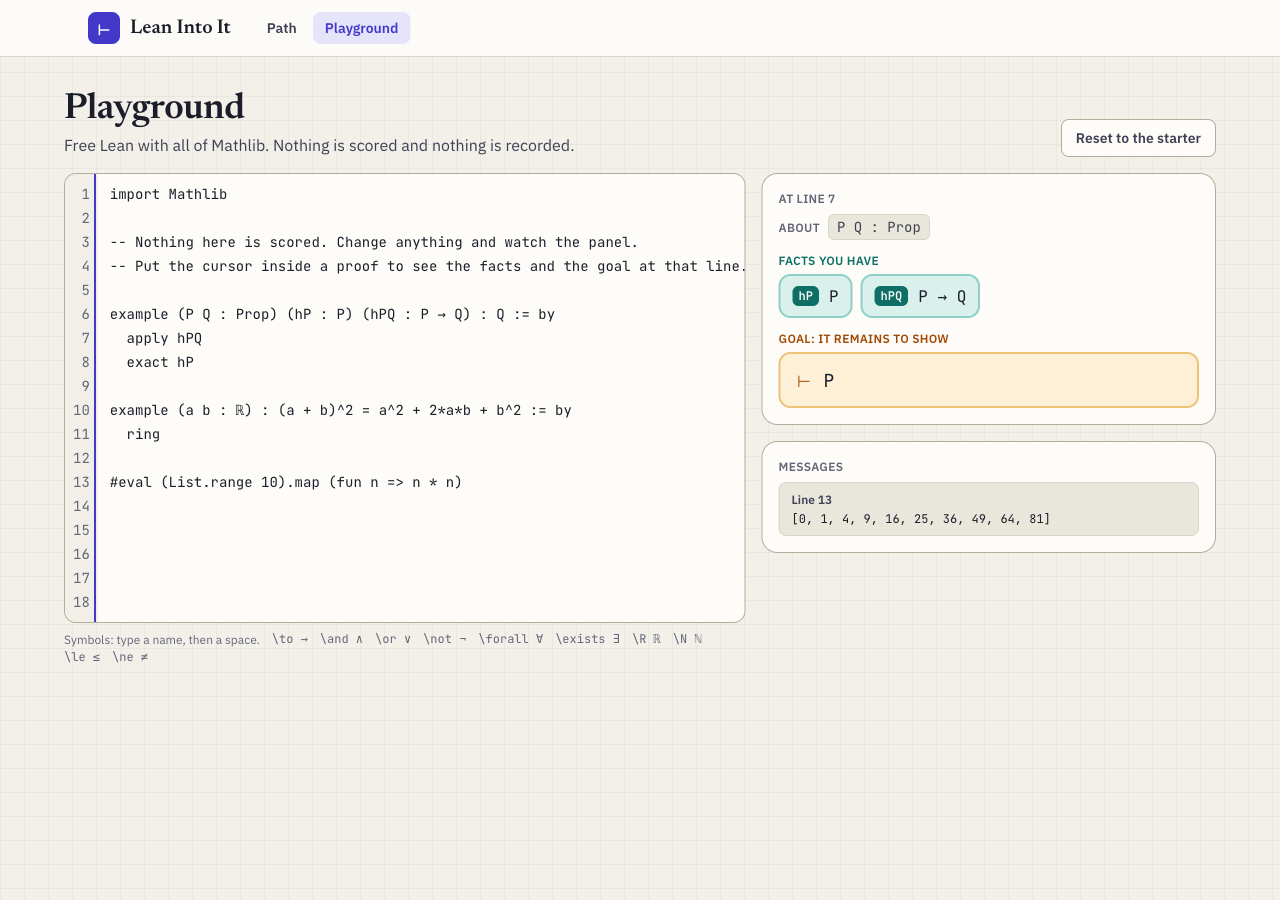
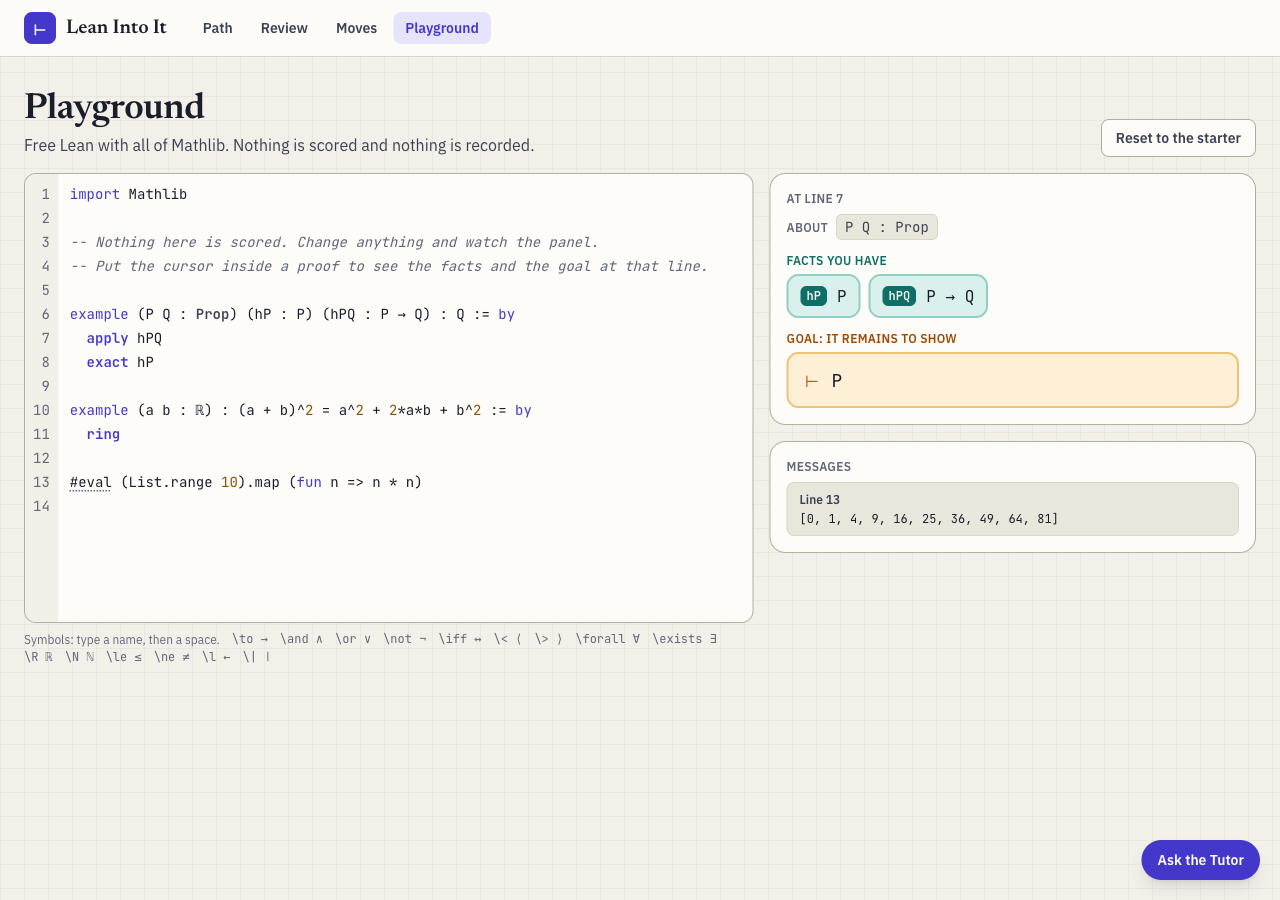
README: screenshots retaken, the Tutor's added, and what is built no longer called planned
Closes lii-2zf.4.

diff --git a/README.md b/README.md
@@ -20,7 +20,7 @@
 
 ## Features
 
-This is an early build. The first four features below work today; the last two are planned. [`docs/STATUS.md`](docs/STATUS.md) lists what is done and what remains.
+This is an early build. Five of the six features below work today; the live proof map is planned. [`docs/STATUS.md`](docs/STATUS.md) lists what is done and what remains.
 
 <table>
   <tr>
@@ -32,9 +32,9 @@ This is an early build. The first four features below work today; the last two a
     </td>
     <td width="50%" valign="top">
       <img src="docs/screenshots/typed-proof.png" alt="A typed Lean proof with the live goal panel beside it" width="100%">
-      <br><sub><i>The same proof, typed, with the goal state beside it.</i></sub>
+      <br><sub><i>A typed proof, with the goal at the caret beside it.</i></sub>
       <h3>Typed Lean with a live goal panel</h3>
-      <p>An editor with the current hypotheses and goals next to it, updated as you type. Exercises are graded by Lean: an error or a <code>sorry</code> fails, and nothing else decides.</p>
+      <p>An editor with Lean's colours, completion and errors underlined where Lean points, and the current hypotheses and goals next to it, updated as you type. Exercises are graded by Lean: an error or a <code>sorry</code> fails, and nothing else decides.</p>
     </td>
   </tr>
   <tr>
@@ -42,7 +42,7 @@ This is an early build. The first four features below work today; the last two a
       <img src="docs/screenshots/guided-path.png" alt="The Path page: levels 0 to 8 with lessons and completion" width="100%">
       <br><sub><i>The Path: nine levels, from what a proof is to how large formalisations are built.</i></sub>
       <h3>A guided path</h3>
-      <p>Levels 0 to 8 in four linked tracks: logic and proof, a maths refresher towards calculus, Lean itself, and verified programs. Levels 0 to 3 are written; the rest are outlined. Completed exercises and lessons are recorded.</p>
+      <p>Levels 0 to 8 in four linked tracks: logic and proof, a maths refresher towards calculus, Lean itself, and verified programs. Levels 0 to 3 are written; the rest are outlined. A level opens when enough of the one before it is mastered, a placement check lets you skip what you know, and what you have learned comes back for review.</p>
     </td>
     <td width="50%" valign="top">
       <img src="docs/screenshots/playground.png" alt="The Playground: a Lean editor with the goal panel and messages beside it" width="100%">
@@ -57,13 +57,15 @@ This is an early build. The first four features below work today; the last two a
       <p>A diagram that grows as you prove: facts as nodes, moves as arrows, open goals highlighted. With it come function and limit explorers, textbook proofs set beside their Lean, and a program stepper.</p>
     </td>
     <td width="50%" valign="top">
-      <h3>A Tutor (planned)</h3>
-      <p>An embedded Claude agent that sees your goal state and the last error, gives hints one rung at a time, works alongside you in the Playground, and writes new lessons whose exercises must compile in Lean before they land. It never grades.</p>
+      <img src="docs/screenshots/tutor.png" alt="The Tutor drawer open beside an exercise, with its three hint rungs" width="100%">
+      <br><sub><i>The Tutor: a nudge, then the move, then the line.</i></sub>
+      <h3>A Tutor</h3>
+      <p>An embedded Claude agent that sees your goal state and the last error, answers questions about the page, and gives hints one rung at a time. It never grades: a line it gives is checked by Lean like any other. Planned: working alongside you in the Playground, and writing new lessons whose exercises must compile in Lean before they land.</p>
     </td>
   </tr>
 </table>
 
-Also planned: mastery and spaced review, a placement check, three more exercise kinds, Listen mode (read-aloud), a Lab with a gallery of famous proofs, and a Dock app.
+Also planned: more exercise kinds, Listen mode (read-aloud), a Lab with a gallery of famous proofs, and a Dock app.
 
 ## How it works
 

diff --git a/docs/STATUS.md b/docs/STATUS.md
@@ -251,15 +251,16 @@ Landed in the first PR, the foundation slice:
   gen:reference` from the registry and the move table: every widget,
   exercise kind and move with checked examples; a test fails when it is
   stale; `lii-2zf.1`), the hero-image prompt, README
-  with four screenshots, `CLAUDE.md`.
+  with five screenshots (retaken with the CodeMirror editor and the level
+  locks; the Tutor's added; `lii-2zf.4`), `CLAUDE.md`. The sixth, the
+  proof map's, comes with that feature (`lii-8wq.2`).
 
-Not yet there, and waiting on Aaron: `docs/hero.png`, generated from
-`docs/hero-image-prompt.md` (`lii-2zf.5`). The README shows a broken image
-until it is added.
+`docs/hero.png` (1600×900, generated from `docs/hero-image-prompt.md`) is
+in the repo; its bead (`lii-2zf.5`) is Aaron's to close.
 
 ## Remaining
 
-33 beads in 12 areas. No P1 is left: P2 is next, P3 can wait. "Needs" lists beads that must
+32 beads in 12 areas. No P1 is left: P2 is next, P3 can wait. "Needs" lists beads that must
 land first.
 
 ### Lean engine (epic `lii-1ou`)
@@ -352,5 +353,4 @@ land first.
 | Bead | Title | P | Needs |
 |---|---|---|---|
 | `lii-2zf.3` | `docs/DATA.md` | 3 | |
-| `lii-2zf.4` | README screenshots | 2 | |
 | `lii-2zf.5` | Generate `docs/hero.png` from the prompt (Aaron) | 2 | |
